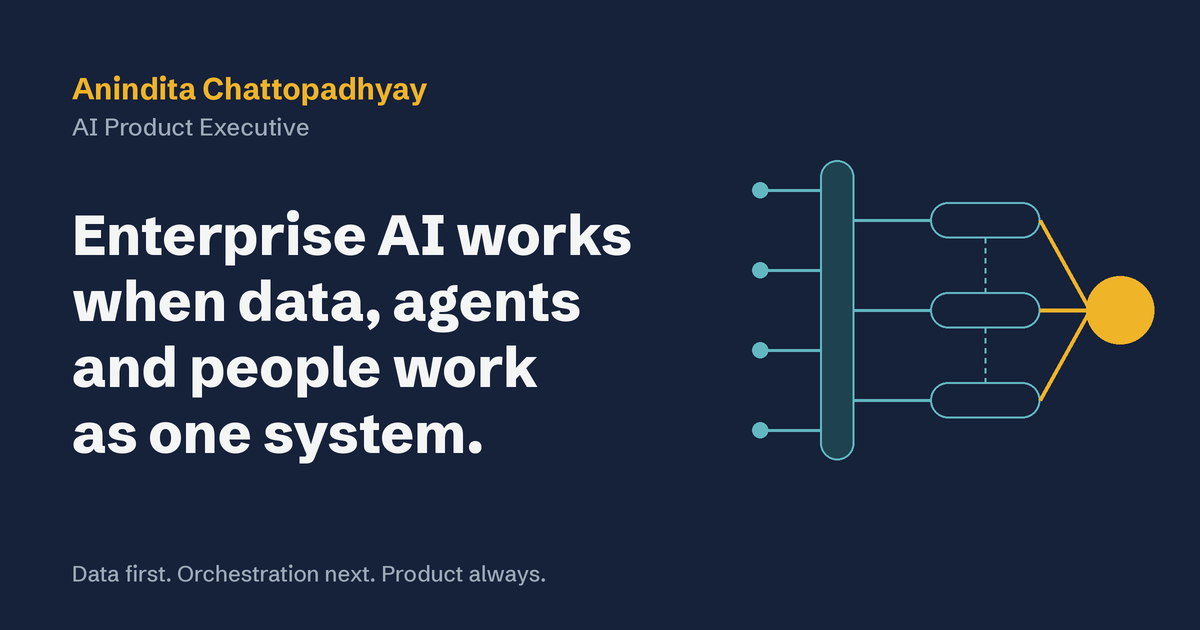
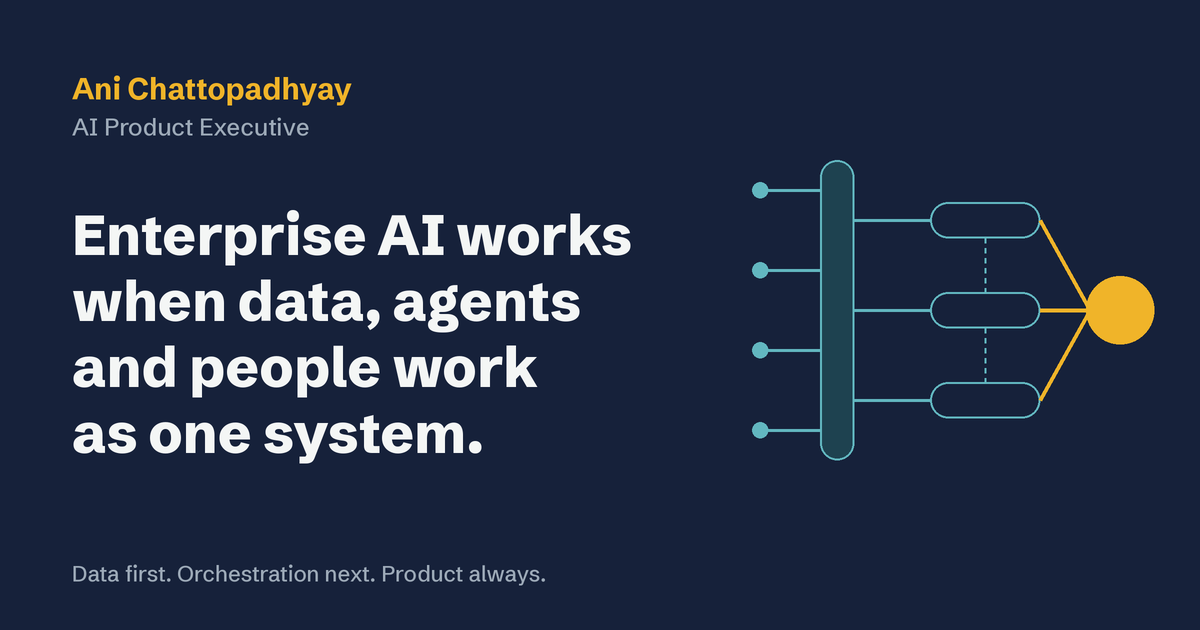
Add files via upload

Changed region(s): [[0.0925, 0.1206, 0.37, 0.181]]

diff --git a/index.html b/index.html
@@ -3,8 +3,20 @@
 <head>
 <meta charset="utf-8">
 <meta name="viewport" content="width=device-width, initial-scale=1, viewport-fit=cover">
-<title>Anindita Chattopadhyay, AI Product Executive</title>
-<meta name="description" content="Anindita Chattopadhyay takes enterprise AI from proof of concept to enterprise-grade products, built on AI-ready data, orchestrated agents and a business model that scales.">
+<title>Ani Chattopadhyay, AI Product Executive</title>
+<meta name="description" content="Ani Chattopadhyay takes enterprise AI from proof of concept to enterprise-grade products, built on AI-ready data, orchestrated agents and a business model that scales.">
+<meta property="og:type" content="website">
+<meta property="og:url" content="https://anichat4git.github.io/portfolio/">
+<meta property="og:title" content="Ani Chattopadhyay, AI Product Executive">
+<meta property="og:description" content="Enterprise AI works when data, agents and people work as one system. I take AI from pilot to products that teams adopt and pay for.">
+<meta property="og:image" content="https://anichat4git.github.io/portfolio/og-image.png">
+<meta property="og:image:width" content="1200">
+<meta property="og:image:height" content="630">
+<meta property="og:image:alt" content="Ani Chattopadhyay, AI Product Executive: Enterprise AI works when data, agents and people work as one system.">
+<meta name="twitter:card" content="summary_large_image">
+<meta name="twitter:title" content="Ani Chattopadhyay, AI Product Executive">
+<meta name="twitter:description" content="I take AI from pilot to products that teams adopt and pay for.">
+<meta name="twitter:image" content="https://anichat4git.github.io/portfolio/og-image.png">
 <link rel="preconnect" href="https://fonts.googleapis.com">
 <link rel="preconnect" href="https://fonts.gstatic.com" crossorigin>
 <link href="https://fonts.googleapis.com/css2?family=Schibsted+Grotesk:wght@400;500;600;700;800&display=swap" rel="stylesheet">
@@ -272,7 +284,7 @@ footer .wrap{display:flex; justify-content:space-between; gap:1rem; flex-wrap:wr
 
 <header class="site-header">
   <div class="wrap">
-    <a class="name" href="#top">Anindita Chattopadhyay</a>
+    <a class="name" href="#top">Ani Chattopadhyay</a>
     <div class="head-right">
     <nav aria-label="Main">
       <ul>
@@ -652,7 +664,7 @@ footer .wrap{display:flex; justify-content:space-between; gap:1rem; flex-wrap:wr
 
 <footer id="site-footer">
   <div class="wrap">
-    <span>© 2026 Anindita Chattopadhyay</span>
+    <span>© 2026 Ani Chattopadhyay</span>
     <span>Data first. Orchestration next. Product always.</span>
   </div>
 </footer>
